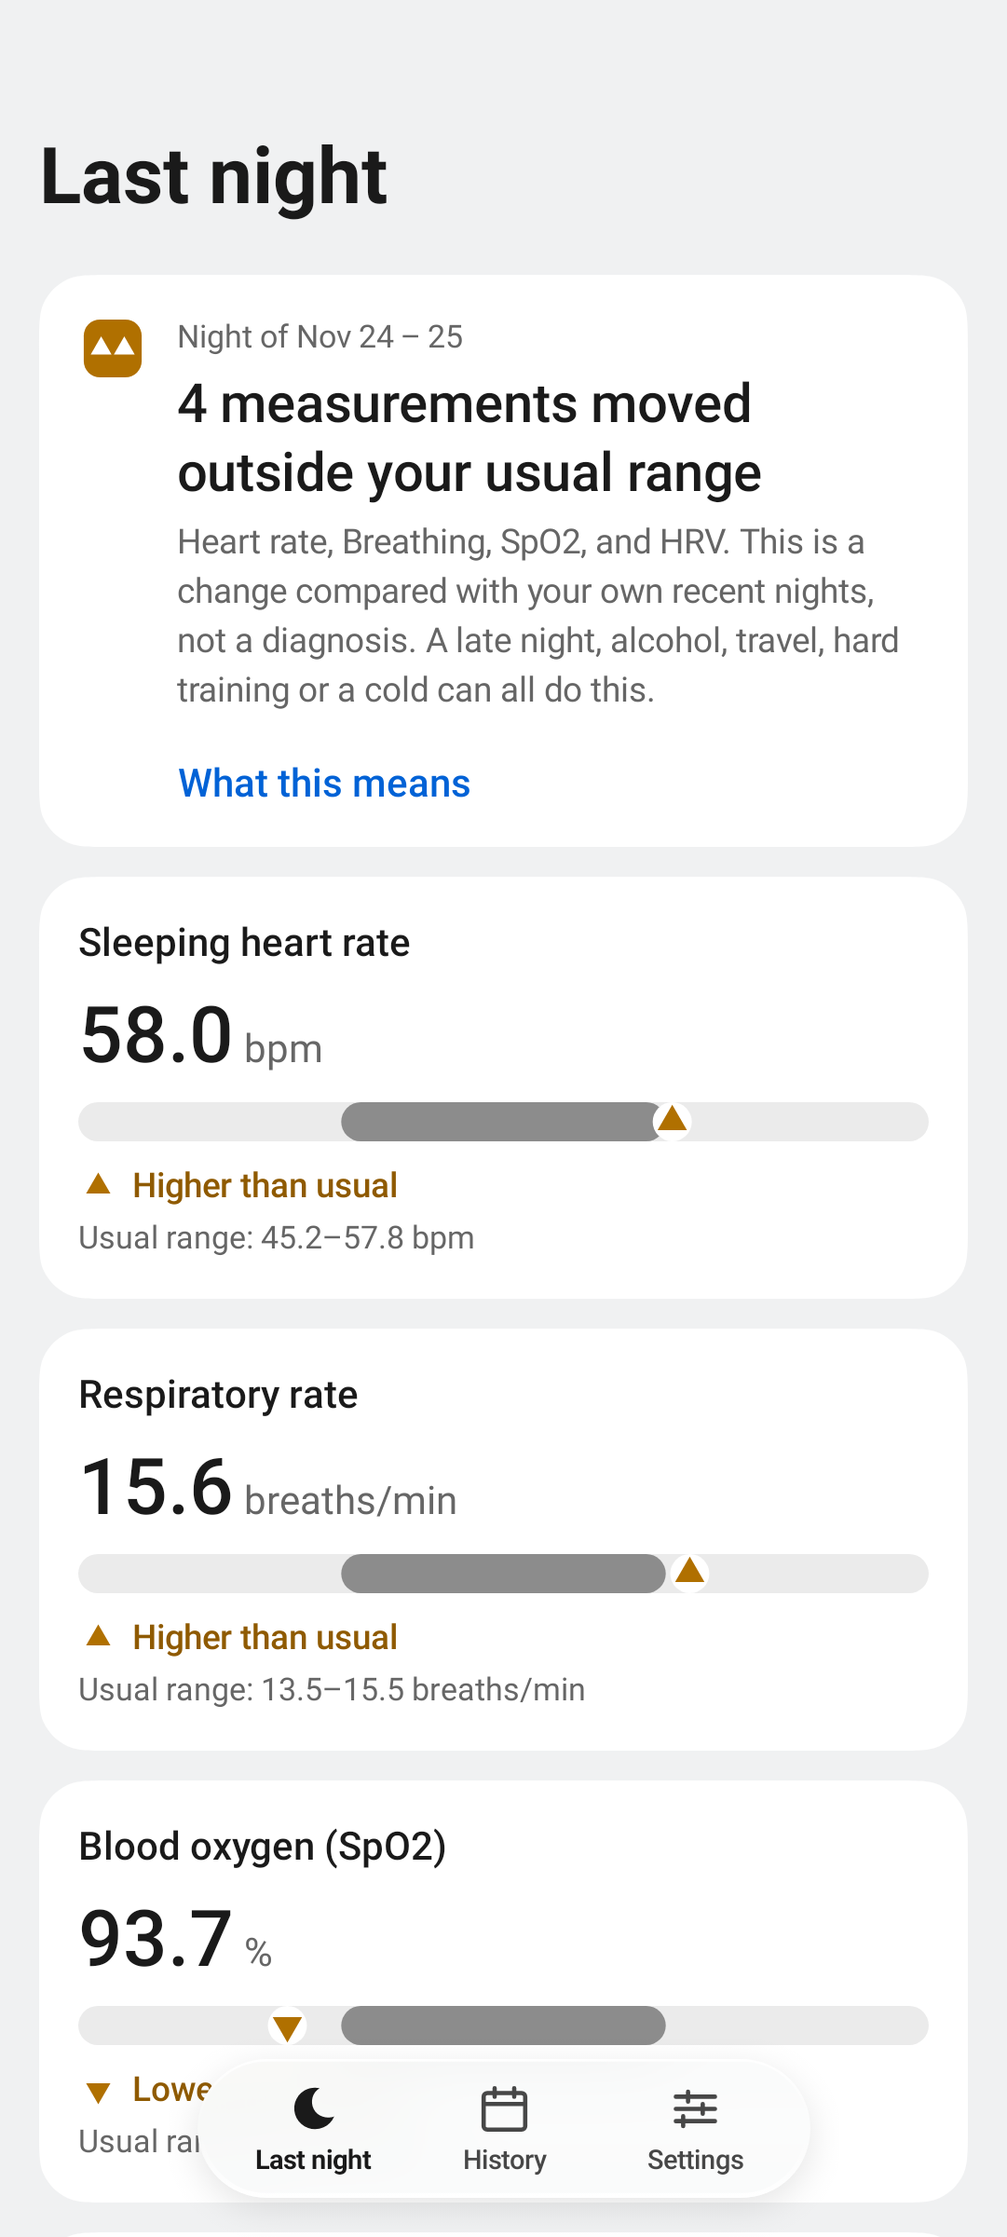
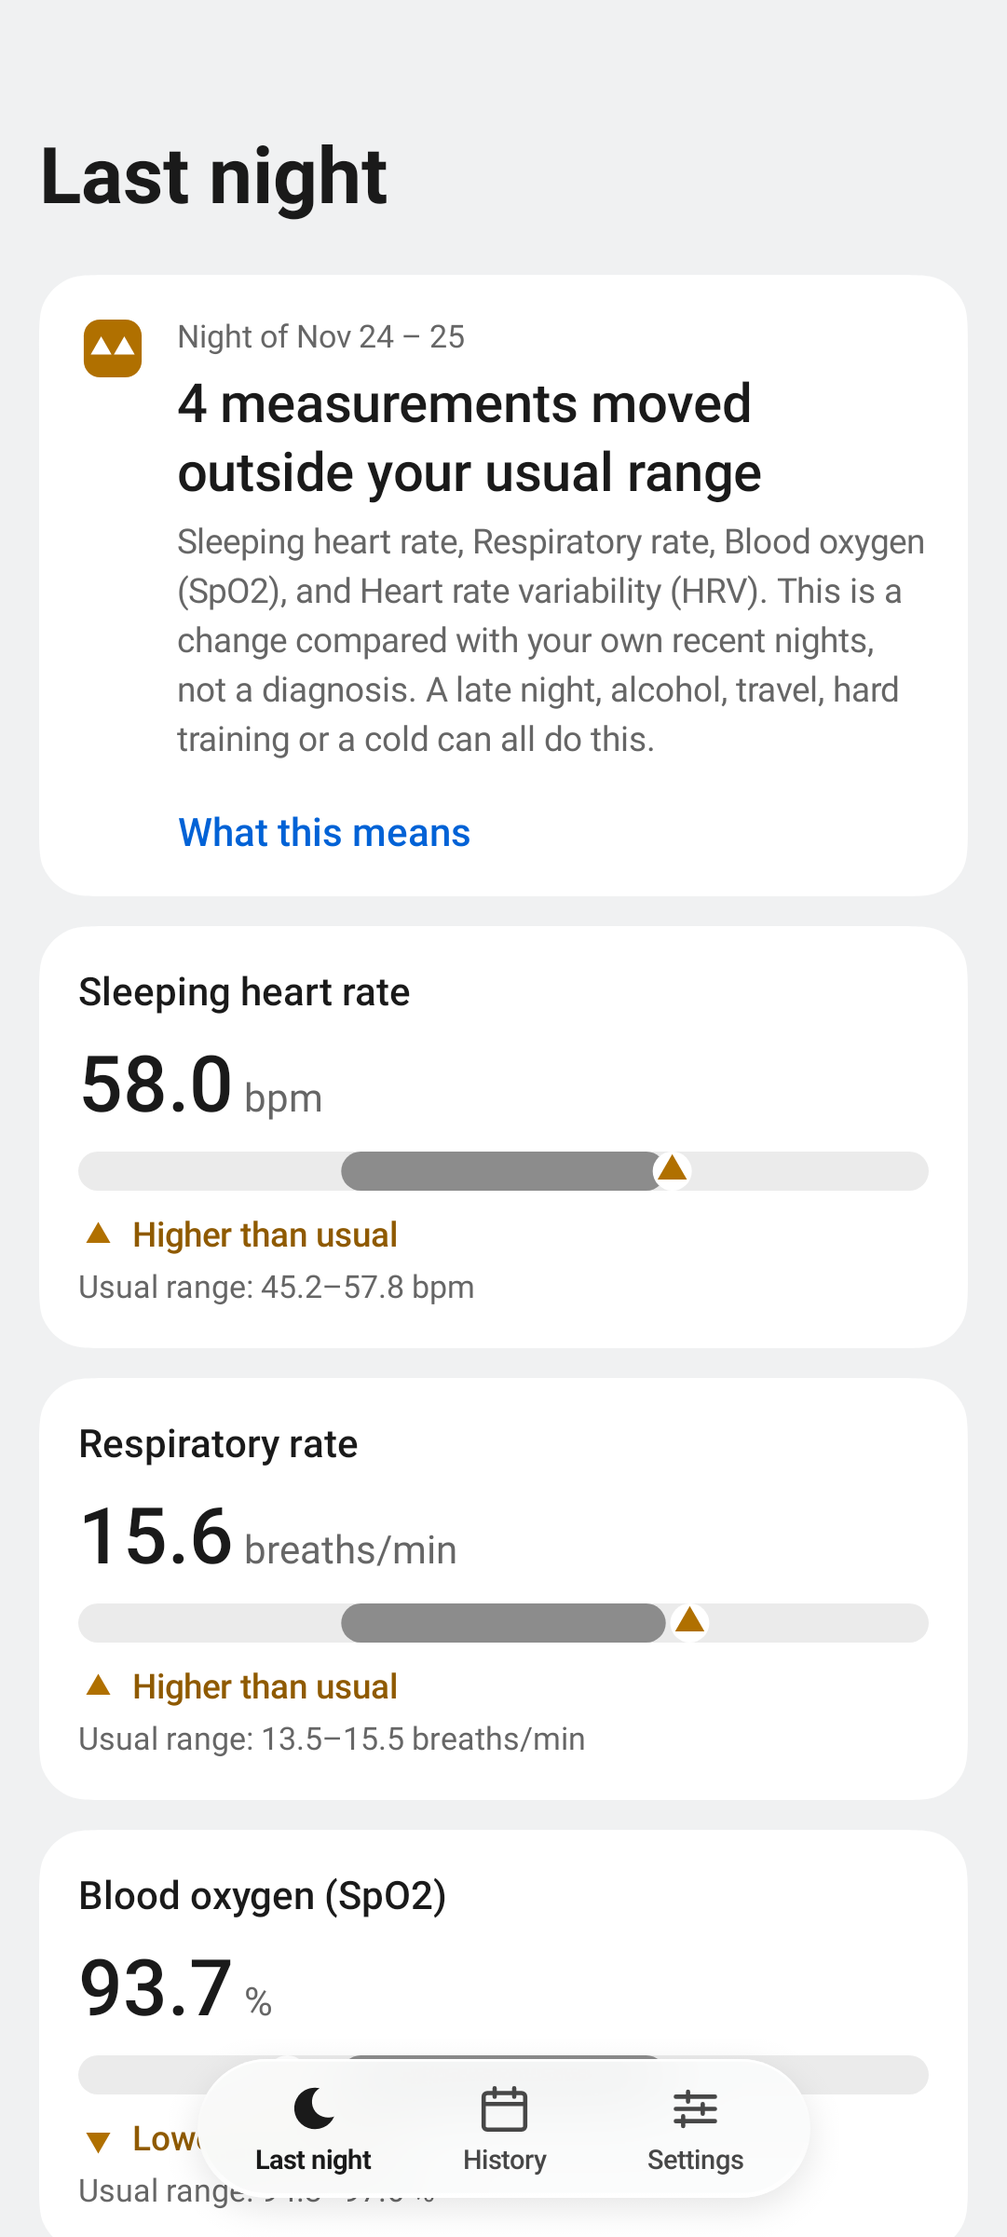
docs: ADR 0010, states.md and README screenshots for the walkthrough fixes
Claude-Session: https://claude.ai/code/session_014ey52HvVuqMhp36yrHWrrg

diff --git a/docs/design/states.md b/docs/design/states.md
@@ -20,7 +20,10 @@ action and where it leads, icon/shape cue) and the copy. Screen structure and co
 - Placeholders: `{source}` source app label from the package manager; `{metric}` metric display name; `{n}`, `{k}`
   integers formatted per locale; `{date}` localized medium date; `{value}`, `{low}`, `{high}` per-metric number
   format + unit string. Counted nouns use `plurals` resources (Russian needs one/few/many/other).
-- Metric names (keys `metric_<id>`, short form `metric_<id>_short` for `Glance` windows, the widget and notifications):
+- Metric names (keys `metric_<id>`, short form `metric_<id>_short` for `Glance` windows and the widget only). Every
+  sentence, card, History row and the notification uses the full name, so a measurement has one name everywhere
+  (ADR 0010). Inside a Russian sentence only the first name of a list keeps its capital letter, and after a colon none
+  does; acronyms (SpO2, HRV) stay as they are:
 
 | key | en | ru |
 |---|---|---|
@@ -45,7 +48,7 @@ then each tile picks a **metric state**. The night state is the first match in t
 | 4 | `E-SOURCE-GONE` | the selected source package is no longer installed (`PackageManager` lookup fails); `{source}` is the last stored label |
 | 5 | `LOADING` | no stored evaluation yet and the first read is running (shown only after 300 ms) |
 | 6 | `L0` | `NightStatus.LEARNING` and `historyNights == 0` and no valid night stored |
-| 7 | `L1`..`L6` | `NightStatus.LEARNING`, `historyNights` = 1..6 |
+| 7 | `L1`..`L6` | `NightStatus.LEARNING`, `historyNights` = 0..6 with a valid night stored; the progress shows the nights collected, this one included (`historyNights` + 1 for a valid night, at most 7: every surface, onboarding included, counts the same nights). At 7 collected the body is `state_learning_ready_body`: "7 nights collected. Your usual range is ready, and the next night is compared with it." |
 | 8 | `E-SYNC` | no night for the expected wake date, the current time is past 18:00 (the end of the date's night window in midpoint keying, `nightKeyShiftHours` = 6) or the daily run's last attempt finished, and the newest record of any type from `{source}` ends before the night's earliest plausible start (18:00 the previous day): the source has not written anything since last evening |
 | 9 | `E-NODATA` | no night for the expected wake date, but `{source}` has written records that end after 03:00 on the wake date: the source synced, it just has no sleep session for that night |
 | 10 | `E-SHORT` | `NightStatus.SHORT_NIGHT` (asleep minutes < `minNightMinutes`, 180) |
@@ -62,9 +65,13 @@ Rules:
 - States 1–4 replace the summary card but never hide stored results: below the state card Home shows the newest
   stored night under the heading "Last result: {night label}" (`home_last_result_heading`).
 - "Expected wake date" = today if now >= 03:00 local, otherwise yesterday.
+- "Check now" (`E-SYNC`, `E-NODATA`, `B-WAIT`, `B-READ-FAILED`) is never silent: while the check runs its button reads
+  `action_checking`: "Checking…" and does nothing (no spinner; the card stays where it is), and when it ends without a
+  new night the card or banner adds `check_result_nothing_new`: "Checked at {time}. Nothing new from {source} yet."
+  (polite live region, for two minutes).
 
 Banners (one at a time, first match wins): `B-BG` > `B-READ-FAILED` > `B-SOURCE-QUIET` > `B-WAIT` > `B-NOTIF-OFF` >
-`B-RANGE-READY`.
+`B-RANGE-READY`. States 1–4 suppress `B-READ-FAILED`, `B-SOURCE-QUIET` and `B-WAIT`: the state card owns the fix.
 
 ## 2. Night states
 
@@ -85,7 +92,7 @@ Columns: trigger is in section 1; **cue** = glyph and color token; **action** = 
 | `E-AMBIGUOUS` | two overlapping half circles, `color.status.neutral` | `state_ambiguous_title`: "Two long sleeps on one day" | `state_ambiguous_body`: "{source} recorded two sleeps of 3 hours or more for this day, so it isn't clear which one was the night. This day isn't compared and doesn't change your usual range." | `action_see_history` -> History | yes |
 | `E-NOTEVAL` | empty circle with dash | `state_noteval_title`: "Too few readings last night" | `state_noteval_body`: "{source} recorded your sleep but too few measurements during it to compare. This can happen when the device sits loosely or its battery runs out." | `action_see_history` -> History | yes |
 | `E-PERM` | key outline, `color.status.info` | `state_perm_title`: "NightBaseline can't read your sleep data" | `state_perm_body`: "Health Connect access was turned off. Your earlier results are still here. Turn access back on to continue." | `action_open_hc_permissions`: "Turn on access" -> Health Connect permission request (falls back to HC app permission settings if the request contract returns without UI) | yes |
-| `E-HC-UPDATE` | download-arrow outline, `color.status.info` | `state_hc_update_title`: "Health Connect needs an update" | `state_hc_update_body`: "NightBaseline reads your nights through Health Connect. Install or update it, then come back." | `action_open_store`: "Install or update" -> `market://details?id=com.google.android.apps.healthdata&url=healthconnect%3A%2F%2Fonboarding` [`action_check_again`: "Check again"] | yes |
+| `E-HC-UPDATE` | download-arrow outline, `color.status.info` | `state_hc_update_title`: "Health Connect needs an update" | `state_hc_update_body`: "NightBaseline reads your nights through Health Connect. Install or update it, then come back." | `action_open_store`: "Install or update" -> `market://details?id=com.google.android.apps.healthdata&url=healthconnect%3A%2F%2Fonboarding` (Google Play, then any `market://` app, then the Play web page `https://play.google.com/store/apps/details?id=...`; if nothing opens, a toast `hc_store_unavailable`: "Couldn't open Google Play. Install Health Connect from your app store.") [`action_check_again`: "Check again"] | yes |
 | `E-SOURCE-GONE` | cloud-with-clock outline, `color.status.info` | `state_source_gone_title`: "{source} is no longer on this phone" | `state_source_gone_body`: "Choose another app that writes sleep data to Health Connect. Your earlier results stay here." | `action_choose_source`: "Choose source" -> Source picker | yes |
 | `E-HC-NONE` | slashed circle, `color.status.neutral` | `state_hc_none_title`: "Health Connect isn't available here" | `state_hc_none_body`: "NightBaseline needs Health Connect, which this phone or profile doesn't support. Nothing is read or stored." | `action_about`: "About NightBaseline" -> About | yes |
 
@@ -113,7 +120,7 @@ label}". All drafted in ru.
 | `M-WITHIN` | `MetricStatus.WITHIN` | filled circle inside band | `status_within`: "Usual" | `detail_within`: "Inside your usual range." | - | yes |
 | `M-HIGH` | `ABOVE`, `deviates` | up triangle right of band | `status_higher`: "Higher than usual" | `detail_higher`: "{delta} above your usual range." | - | yes |
 | `M-LOW` | `BELOW`, `deviates` | down triangle left of band | `status_lower`: "Lower than usual" | `detail_lower`: "{delta} below your usual range." | - | yes |
-| `M-SIDE-IGNORED` | value outside on a side the metric's `Sensitivity` ignores (e.g. SpO2 above range) | filled circle, marker outside band but no triangle | `status_within` | `detail_side_ignored`: "Higher values of {metric} are shown but don't count as a change." | - | yes |
+| `M-SIDE-IGNORED` | value outside on a side the metric's `Sensitivity` ignores (e.g. SpO2 above range) | filled circle, marker outside band but no triangle | `status_within` | above: `detail_side_ignored`: "Higher values of {metric} are shown but don't count as a change."; below: `metric_detail_side_ignored_lower`: "Lower values of {metric} are shown but don't count as a change." | - | yes |
 | `M-LEARN` | `MetricStatus.LEARNING` (metric has < 7 values, e.g. appeared later) | dotted ring, dotted band outline | `status_learning`: "Learning, {n} of 7" | `detail_learning`: "This measurement needs {left} more nights before it gets a range. It doesn't count until then." | "How it works" | yes |
 | `M-NODATA` | `MISSING`, `MissingReason.NO_DATA` | dash, no marker, band shown | `status_no_value`: "No value last night" | `detail_no_data`: "{source} recorded no {metric} during your sleep last night." | - | yes |
 | `M-FEW` | `MISSING`, `TOO_FEW_SAMPLES` | dash | `status_no_value` | `detail_too_few`: "Only {k} readings during sleep; at least {min} are needed to compare." | - | yes |
@@ -121,6 +128,7 @@ label}". All drafted in ru.
 | `M-NOTCOMPARED` | night is `SHORT_NIGHT` | dash next to the value | `status_not_compared`: "Not compared" | `detail_not_compared`: "Short nights aren't compared." | - | yes |
 | `M-NOTPROVIDED` | `MissingReason.NOT_PROVIDED` (source never writes the channel) | slashed circle, no band | `status_not_provided`: "Not recorded by {source}" | `detail_not_provided_title`: "{source} doesn't record {metric}" + `detail_not_provided_body`: "{source} doesn't send this measurement to Health Connect. If it starts, NightBaseline picks it up and learns its range automatically." | `action_choose_source` -> Source picker (secondary) | yes |
 | `M-PERM` | permission for this metric's record type not granted (core ones present) | key outline, no band | `status_access_off`: "Access off" | `detail_access_off`: "Health Connect access to {metric} is turned off." | `action_open_hc_permissions` | yes |
+| `M-PERM-THEN` | `MissingReason.NO_ACCESS`: the night was read while this permission was off, access is on now (the night is read again once, see `NightProcessor`) | dash, no band | `status_access_off_then`: "No access that night" | `detail_access_off_then`: "Health Connect access to {metric} was off when this night was read." | - | yes |
 
 ### 4.1 "Metric not provided by the source" on Home and Metric detail
 
@@ -177,7 +185,7 @@ Which states each screen shows and how (`card` = state card replaces the main co
 | Accent color | `color.status.moved` (light theme value), used by the system only for the icon tint. |
 | Category / visibility | `CATEGORY_STATUS`; `VISIBILITY_PRIVATE` with a public version (below). |
 | Title | `notif_dev_title` (plurals on {k}): "{k} measurements moved outside your usual range" |
-| Body (collapsed) | `notif_dev_body`: "{metric list}. {night label}." (e.g. "Heart rate and Breathing. Night of Nov 24–25."; `{night label}` is `night_label`, which already contains "Night of", so it is never wrapped in another "night of"). Metric list uses short names, max 3, then `notif_list_more` (plurals): "and {n} more". No values. |
+| Body (collapsed) | `notif_dev_body`: "{metric list}. {night label}." (e.g. "Heart rate and Breathing. Night of Nov 24–25."; `{night label}` is `night_label`, which already contains "Night of", so it is never wrapped in another "night of"). Metric list uses the full names (as the cards), max 3, then `notif_list_more` (plurals): "and {n} more". No values. |
 | Body (expanded, `BigTextStyle`) | `notif_dev_body_long`: "Higher than usual: {higher list}. Lower than usual: {lower list}. This compares the night with your own recent nights and isn't a diagnosis. Not a medical device." Empty direction groups are omitted (`notif_higher_prefix`, `notif_lower_prefix`). |
 | Public version (lock screen) | Title `notif_public_title`: "NightBaseline"; body `notif_public_body`: "Last night's result is ready." No metric names, no counts, no values. |
 | Tap action | `PendingIntent` (immutable) -> `nightbaseline://night/{date}`: Home if this is the newest evaluated night, otherwise Night detail; synthetic back stack to Home. Onboarding gate applies (`screens.md` section 3). |
@@ -232,13 +240,14 @@ it." Tap -> Home.
 | `O-WELCOME` | step 1 | `onb_welcome_title`: "NightBaseline" / `onb_welcome_body`: "Notices when your night measurements move outside your usual range." Points `onb_point_daily`: "Reads once a day, after you wake up", `onb_point_own`: "Compares each night with your own recent nights", `onb_point_local`: "Everything stays on this phone. No internet access." + `disclaimer_full`. Step indicator on every step: `onb_step`: "Step {n} of 6" | `onb_start`: "Get started" -> step 2 | yes |
 | `O-HOW` | step 2 | `onb_how_title`: "How it works" / `onb_how_body`: "The first 7 nights teach NightBaseline your usual range for each measurement. After that, you get a note when two or more move outside it on the same night." | `action_next`: "Next" | yes |
 | `O-SOURCE` | step 3, sources found | `onb_source_title`: "Where your nights come from" / `onb_source_body`: "Any app that writes sleep and heart rate to Health Connect works. Pick the one your watch or ring uses." Row summary `source_last_sync`: "Last sleep: {date}" | `onb_use_source`: "Use {source}" -> step 4 | yes |
+| `O-SOURCE-ACCESS` | Health Connect available, sleep not granted yet and no source can be listed | `onb_source_access_title`: "Allow access to see your sources" / `onb_source_access_body`: "NightBaseline needs to read sleep in Health Connect to find the app that records your nights." | `onb_perm_allow` -> the permission request; after the grant the app that wrote sleep is preselected | yes |
 | `O-NOSOURCE` | no app wrote sleep data in the last 30 days (only detectable after permissions; before that the list shows apps that have Health Connect access per the HC client, or is empty) | `onb_nosource_title`: "No sleep data in Health Connect yet" / `onb_nosource_body`: "Let your watch or ring app share sleep and heart rate with Health Connect, then check again." | `action_check_again` [`action_open_hc`: "Open Health Connect"] | yes |
 | `O-HC-UPDATE` / `O-HC-NONE` | as `E-HC-UPDATE` / `E-HC-NONE` | same copy as section 2 | same | yes |
 | `O-PERM` | step 4 | `onb_perm_title`: "Allow reading in Health Connect" / `onb_perm_body`: "NightBaseline only reads. It never writes, changes or shares your data." Lines per type `onb_perm_sleep`: "Sleep: when you slept and for how long", `onb_perm_hr`: "Heart rate during sleep", `onb_perm_rr`: "Respiratory rate", `onb_perm_spo2`: "Blood oxygen (SpO2)", `onb_perm_hrv`: "Heart rate variability, if your source records it", `onb_perm_skin`: "Skin temperature, if your source records it", `onb_perm_background`: "In the background, so the morning check runs without opening the app", `onb_perm_history`: "Past data, so up to 60 earlier nights can be used right away (optional)" | `onb_perm_allow`: "Allow in Health Connect" -> HC permission request | yes |
 | `O-PERM-DENIED` | sleep or heart rate not granted after the request | `onb_perm_denied_title`: "Sleep and heart rate are needed" / `onb_perm_denied_body`: "Without them there is nothing to compare. Other measurements are optional." | `action_try_again`: "Try again" (second denial: Health Connect stops showing the dialog -> `action_open_hc` opens HC app permissions) | yes |
-| `O-PERM-PARTIAL` | core granted, some optional not | inline note `onb_perm_partial`: "Some measurements are off. You can turn them on later in Settings." | continues | yes |
+| `O-PERM-PARTIAL` | core granted, some optional not | each optional row shows a check or an "off" cross (TalkBack `onb_perm_row_off`: "{row}: off"); the note names what is off: a measurement `onb_perm_partial`: "Some measurements are off. You can turn them on later in Settings.", background `onb_perm_partial_background`: "Background reading is off, so the morning check runs when you open the app. You can turn it on later in Settings.", past data `onb_perm_partial_history`: "Past data is off, so only the last 30 days can be used." (joined when several are off) | continues | yes |
 | `O-NOTIF` | step 5 | `onb_notif_title`: "A calm note in the morning" / `onb_notif_body`: "Only when two or more measurements move outside your usual range on the same night." | `onb_notif_allow`: "Allow notifications" -> system prompt (API 33+) [`action_not_now`: "Not now"] | yes |
-| `O-READY-HISTORY` | step 6, past nights found and >= 7 valid | `onb_ready_history_title` (plurals): "Found {n} past nights" / `onb_ready_history_body`: "Your usual range is ready. Last night is already compared." | `action_done`: "Done" -> Home | yes |
+| `O-READY-HISTORY` | step 6, past nights found and >= 7 valid | `onb_ready_history_title` (plurals): "Found {n} past nights" / `onb_ready_history_body`: "Your usual range is ready. From now on each night is compared with it." (the step runs before the first check, so it claims nothing about last night) | `action_done`: "Done" -> Home | yes |
 | `O-READY-LEARN` | step 6, < 7 valid past nights | `onb_ready_learn_title`: "Learning starts tonight" / `onb_ready_learn_body` (plurals on {n}): "{n} of 7 nights are already there." | `action_done` -> Home (learning) | yes |
 
 ### 7.4 Settings

diff --git a/docs/adr/0010-one-name-per-measurement-and-no-access.md b/docs/adr/0010-one-name-per-measurement-and-no-access.md
@@ -1,0 +1,40 @@
+# ADR 0010: One name per measurement, and "no access" is not "not recorded"
+
+- Status: accepted
+- Date: 2026-11-26
+
+## Context
+
+The emulator walkthrough found two wording rules that made the app contradict itself.
+
+1. Names. The summary and the notification used the short names ("Breathing and SpO2") right above cards and History
+   rows with the full names ("Respiratory rate", "Blood oxygen (SpO2)"). The Russian lists also kept the capital
+   letter of every standalone label inside a sentence. The owner asked for one consistent name per measurement
+   across the summary, the notification, the cards and History.
+2. Missing values. The stored night summary recorded "the permission was off" as `MissingReason.NOT_PROVIDED` ("the
+   source doesn't write this"). Once access was granted again, those nights kept saying "{source} doesn't send this
+   measurement to Health Connect", while the Source picker listed the same measurement for the same source.
+
+## Decision
+
+- Every sentence, card, History row and the notification uses the full metric name. The short names stay for the
+  compact surfaces only (Glance windows, the widget, the compact split-window lines). The full names move from `:app`
+  to `:work` (`work/src/main/res`), so the notification and the app read the same resource. The app no longer copies
+  the notification strings of `:work`: the copies won the resource merge and had lost their trailing spaces
+  ("Breathing.Lower than usual").
+- Lists of names go through `InlineNames` (`:work`). In Russian every item after the first is lowercased, and the
+  first one too when the list follows other words (after a colon). Only a word that is a capital letter followed by
+  lowercase letters changes, so SpO2 and HRV stay as they are. English keeps its title-case names.
+- `MissingReason.NO_ACCESS` (core-algo) marks a channel whose permission was not granted when the night was read
+  (`HealthDataReader.noAccessChannels()`). It is never evaluated (like `NOT_PROVIDED`), the UI shows it as
+  `M-PERM-THEN` ("No access that night"), never as "Not recorded by {source}". When the permission is granted again,
+  the daily check reads such nights again once (final or not) so they get their values.
+- Stored evaluations do not change: existing summaries contain no `NO_ACCESS`, so `AlgoFingerprint.ALGO_VERSION`
+  stays at 2. Nights stored before this change with a permission-caused `NOT_PROVIDED` keep it (the reason cannot be
+  told apart afterwards); they age out of the 90-night views.
+
+## Consequences
+
+- The notification body is longer ("Sleeping heart rate and Respiratory rate. Night of Nov 24–25."); the collapsed
+  line may ellipsize, the expanded text shows all of it.
+- A new metric needs its full and short names in `:work` (en and ru).

diff --git a/tools/emu/README.md b/tools/emu/README.md
@@ -83,7 +83,7 @@ written after "now".
 | `normal` | 60 | all within the usual range |
 | `deviations` | 60 | last night: heart rate +14 bpm, respiratory rate +2.5, SpO2 −4 → DEVIATIONS (3 moved, each well beyond the range edge for any night count) |
 | `learning` | 3 | learning period |
-| `learning6` | 6 | learning, one night before the first evaluation |
+| `learning6` | 6 | learning, "6 of 7 nights": the next night completes the range and the one after it is the first compared |
 | `short_last` | 60 | last night only 2 h → short night |
 | `ambiguous` | 60 | a 200-min sleep ending 2 h before the last night → ambiguous night |
 | `no_spo2_rr` | 60 | the source writes only sleep + heart rate (no steps either: completeness falls back to "ended 3 h ago") |
